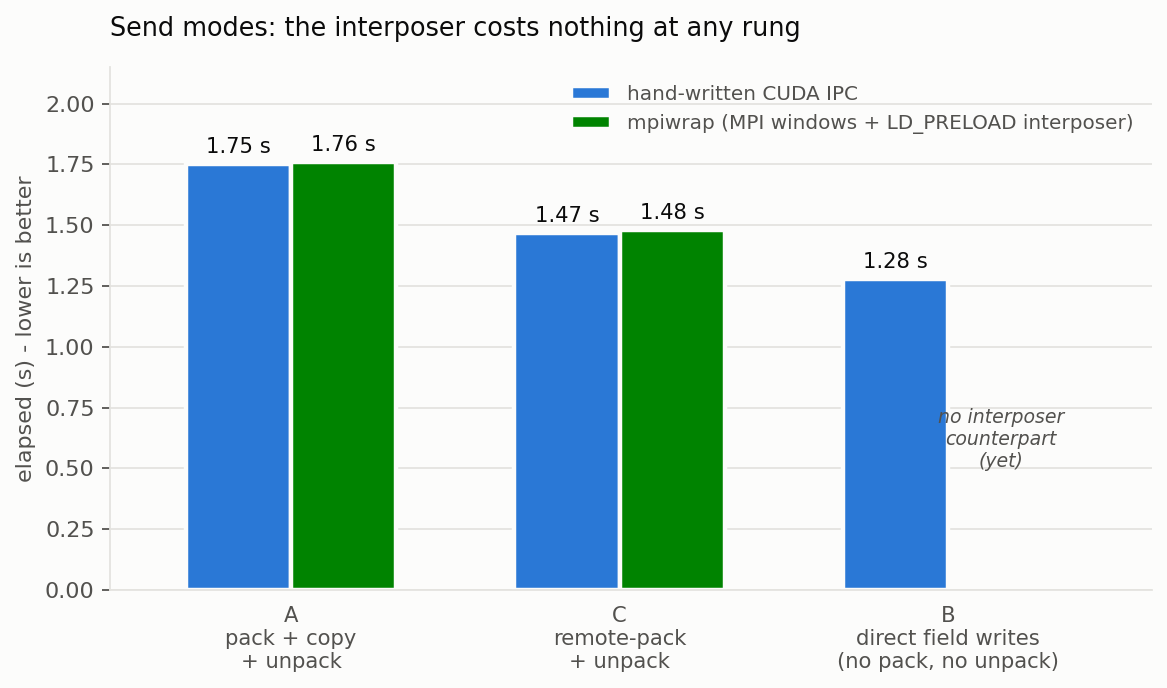
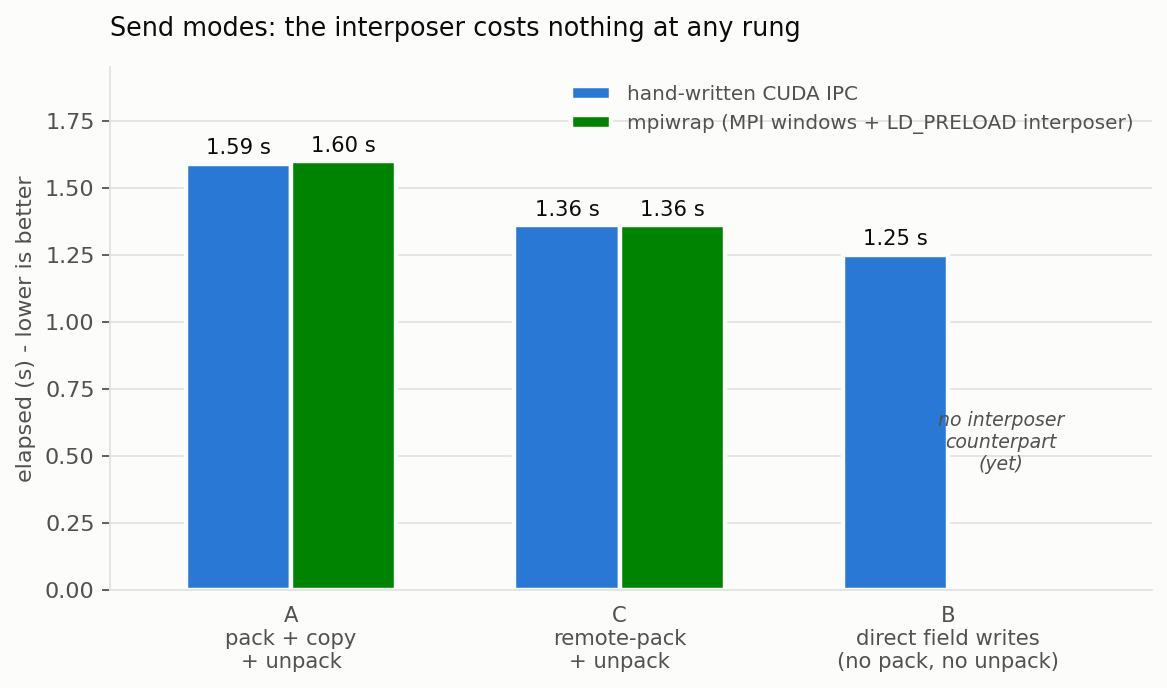
Re-baseline LULESH under UCX defaults; revert a racy stencil sync change
LULESH (job 60150, h200x8-03, UCX defaults, 8 ranks, -s 45, 3145 iters).
Removing the UCX_TLS pinning moved the staged baseline from 3.56 s to 1.96 s
-- 1.82x -- while every other variant moved <=10%. Since staged is the
denominator of every reported speedup, all of them shifted:

  direct 1.25 s (+56.8% z/s, was 2.78x)   ipc_rp     1.36 (+44.1%)
  mpiwrap_rp 1.36 (+44.1%)                ipc        1.59 (+23.3%)
  mpiwrap 1.60 (+22.5%)                   nvshmem    1.74 (+12.6%)
  gpumpi 1.83 (+7.1%)                     staged     1.96 (baseline)
  shmwin 2.07 (-5.3%)

Three consequences. The headline drops from 2.78x to +56.8% (1.57x). shmwin
FLIPS SIGN -- previously reported 1.70x faster than staged, it is actually
~5% slower, unsurprising for a backend that stages through a host window.
And gpumpi moves from appendix-excluded to competitive at +7.1% over staged,
consistent with the stencil and transpose re-baselines. All nine variants
match energy 1.482403e+06; ALL VARIANTS: PASS.

The thesis result survives and tightens: mpiwrap_rp 1.36 vs ipc_rp 1.36 is
identical, mpiwrap 1.60 vs ipc 1.59 is 0.6%. Matched pairs from one run
sharing transfer and synchronisation code, differing only in peer-pointer
acquisition, so this is independent of the staged baseline entirely.

README table, takeaways and both plots regenerated from 60150 rather than
left on 46979 -- a stale figure beside a fresh table is exactly the defect
[…]

diff --git a/plots/make_lulesh_plots.py b/plots/make_lulesh_plots.py
@@ -1,5 +1,17 @@
 #!/usr/bin/env python3
-"""LULESH README charts from the SXM verification run (job 46979).
+"""LULESH README charts. Writes plots/lulesh_variants_sxm.png and
+plots/lulesh_modes_sxm.png.
+
+Data: job 60150 (h200x8-03, SXM/NVSwitch all-to-all), 8 ranks, -s 45, full
+sedov run to t=0.01, 3145 iterations, **UCX defaults** (UCX_TLS unset).
+
+Supersedes job 46979, which exported UCX_TLS=self,sm,cuda_copy,cuda_ipc. That
+pinning inflated the staged baseline from 1.96 s to 3.56 s while moving every
+other variant <=10%, so all speedup-vs-staged figures shifted: direct went from
+2.78x to +56.8% z/s (1.57x), and shmwin flipped sign -- previously reported as
+1.70x faster than staged, it is actually ~5% slower, which is unsurprising
+since it stages through a HOST window. gpumpi is now included: under defaults
+it beats staged, so relegating it to an appendix is no longer justified.
 
 Palette: dataviz reference categorical slots, fixed order (validated set).
 Marks: thin bars, 2px surface gaps, recessive grid, text in ink tokens.
@@ -12,8 +24,9 @@ SURFACE = "#fcfcfb"
 INK     = "#0b0b0b"
 INK2    = "#52514e"
 GRID    = "#e4e3df"
-# categorical slots 1-4, fixed order
+# categorical slots 1-4, fixed order; grey is a neutral for the host-window case
 BLUE, GREEN, MAGENTA, YELLOW = "#2a78d6", "#008300", "#e87ba4", "#eda100"
+GREY = "#8a8a86"
 
 plt.rcParams.update({
     "font.family": "DejaVu Sans",
@@ -23,52 +36,57 @@ plt.rcParams.update({
     "axes.facecolor": SURFACE, "savefig.facecolor": SURFACE,
 })
 
-# ---- data: h200x8-03 (SXM), -s 45, 3145 iterations to t=0.01 ----
-variants = [  # name, mode, elapsed(s), speedup
-    ("direct",     "B", 1.28, 2.78),
-    ("ipc_rp",     "C", 1.47, 2.42),
-    ("mpiwrap_rp", "C", 1.48, 2.41),
-    ("ipc",        "A", 1.75, 2.03),
-    ("nvshmem",    "A", 1.76, 2.02),
-    ("mpiwrap",    "A", 1.76, 2.02),
-    ("shmwin",     "-", 2.09, 1.70),
-    ("staged",     "-", 3.56, 1.00),
+# ---- job 60150: h200x8-03 (SXM), -s 45, 3145 iters, UCX defaults ----
+variants = [  # name, category, elapsed(s), throughput gain vs staged
+    ("direct",     "B", 1.25, +0.568),
+    ("ipc_rp",     "C", 1.36, +0.441),
+    ("mpiwrap_rp", "C", 1.36, +0.441),
+    ("ipc",        "A", 1.59, +0.233),
+    ("mpiwrap",    "A", 1.60, +0.225),
+    ("nvshmem",    "A", 1.74, +0.126),
+    ("gpumpi",     "T", 1.83, +0.071),
+    ("staged",     "T", 1.96,  0.000),
+    ("shmwin",     "W", 2.07, -0.053),
 ]
-MODE_COLOR = {"B": BLUE, "C": GREEN, "A": MAGENTA, "-": YELLOW}
+MODE_COLOR = {"B": BLUE, "C": GREEN, "A": MAGENTA, "T": YELLOW, "W": GREY}
 MODE_LABEL = {
     "B": "mode B - direct field writes",
     "C": "mode C - remote-pack",
     "A": "mode A - pack + copy",
-    "-": "two-sided / host window",
+    "T": "two-sided MPI",
+    "W": "host shared window",
 }
+CAT_ORDER = ["B", "C", "A", "T", "W"]
 
-# =============== chart 1: all defensible variants ===============
-fig, ax = plt.subplots(figsize=(8.6, 4.6), dpi=160)
+# =============== chart 1: all nine variants ===============
+fig, ax = plt.subplots(figsize=(8.6, 5.5), dpi=160)
 names   = [v[0] for v in variants][::-1]
 times   = [v[2] for v in variants][::-1]
-speeds  = [v[3] for v in variants][::-1]
+gains   = [v[3] for v in variants][::-1]
 colors  = [MODE_COLOR[v[1]] for v in variants][::-1]
 
 bars = ax.barh(names, times, height=0.62, color=colors,
                edgecolor=SURFACE, linewidth=2)
-for bar, t, s in zip(bars, times, speeds):
-    ax.text(bar.get_width() + 0.05, bar.get_y() + bar.get_height()/2,
-            f"{t:.2f} s" + (f"   ({s:.2f}x)" if s != 1.0 else "   (baseline)"),
+for bar, t, g in zip(bars, times, gains):
+    lab = (f"{t:.2f} s   (baseline)" if g == 0.0
+           else f"{t:.2f} s   ({g*100:+.1f}% z/s)")
+    ax.text(bar.get_width() + 0.03, bar.get_y() + bar.get_height()/2, lab,
             va="center", ha="left", fontsize=9.5, color=INK)
 
 ax.set_xlabel("elapsed (s) - lower is better", fontsize=10)
-ax.set_xlim(0, 4.55)
+ax.set_xlim(0, 2.85)
 ax.xaxis.grid(True, color=GRID, linewidth=0.8)
 ax.set_axisbelow(True)
 for side in ("top", "right", "left"):
     ax.spines[side].set_visible(False)
 ax.tick_params(left=False, labelsize=10.5)
-ax.set_title("LULESH halo exchange - full sedov run, 8 ranks / 8x H200 SXM "
-             "(-s 45, 3145 iterations)", fontsize=11.5, color=INK,
-             loc="left", pad=14)
+ax.set_title("LULESH halo exchange - full sedov run, 8 ranks / 8x H200 SXM\n"
+             "(-s 45, 3145 iterations, default UCX transport selection)",
+             fontsize=11.5, color=INK, loc="left", pad=14)
 
-handles = [plt.Rectangle((0, 0), 1, 1, color=MODE_COLOR[m]) for m in "BCA-"]
-ax.legend(handles, [MODE_LABEL[m] for m in "BCA-"], loc="upper right",
+handles = [plt.Rectangle((0, 0), 1, 1, color=MODE_COLOR[c]) for c in CAT_ORDER]
+ax.legend(handles, [MODE_LABEL[c] for c in CAT_ORDER],
+          loc="upper center", bbox_to_anchor=(0.5, -0.13), ncol=3,
           frameon=False, fontsize=9, labelcolor=INK2)
 fig.tight_layout()
 fig.savefig("plots/lulesh_variants_sxm.png", bbox_inches="tight")
@@ -78,8 +96,8 @@ plt.close(fig)
 fig, ax = plt.subplots(figsize=(7.4, 4.4), dpi=160)
 modes      = ["A\npack + copy\n+ unpack", "C\nremote-pack\n+ unpack",
               "B\ndirect field writes\n(no pack, no unpack)"]
-ipc_times  = [1.75, 1.47, 1.28]   # ipc, ipc_rp, direct (hand-written IPC family)
-wrap_times = [1.76, 1.48, None]   # mpiwrap, mpiwrap_rp, (no counterpart)
+ipc_times  = [1.59, 1.36, 1.25]   # ipc, ipc_rp, direct (hand-written IPC family)
+wrap_times = [1.60, 1.36, None]   # mpiwrap, mpiwrap_rp, (no counterpart)
 
 x = range(3)
 w = 0.32
@@ -90,19 +108,19 @@ b2 = ax.bar([i + w/2 for i in x[:2]], wrap_times[:2], width=w, color=GREEN,
             label="mpiwrap (MPI windows + LD_PRELOAD interposer)")
 
 for bar, t in zip(b1, ipc_times):
-    ax.text(bar.get_x() + bar.get_width()/2, t + 0.045, f"{t:.2f} s",
+    ax.text(bar.get_x() + bar.get_width()/2, t + 0.035, f"{t:.2f} s",
             ha="center", fontsize=9.5, color=INK)
 for bar, t in zip(b2, wrap_times[:2]):
-    ax.text(bar.get_x() + bar.get_width()/2, t + 0.045, f"{t:.2f} s",
+    ax.text(bar.get_x() + bar.get_width()/2, t + 0.035, f"{t:.2f} s",
             ha="center", fontsize=9.5, color=INK)
-ax.text(2 + w/2, 0.62, "no interposer\ncounterpart\n(yet)", ha="center",
+ax.text(2 + w/2, 0.55, "no interposer\ncounterpart\n(yet)", ha="center",
         va="center", fontsize=8.5, color=INK2, style="italic")
 ax.set_xlim(-0.55, 2.62)
 
 ax.set_xticks(list(x))
 ax.set_xticklabels(modes, fontsize=9.5)
 ax.set_ylabel("elapsed (s) - lower is better", fontsize=10)
-ax.set_ylim(0, 2.15)
+ax.set_ylim(0, 1.95)
 ax.yaxis.grid(True, color=GRID, linewidth=0.8)
 ax.set_axisbelow(True)
 for side in ("top", "right"):

diff --git a/LULESH/cuda/README.md b/LULESH/cuda/README.md
@@ -152,26 +152,47 @@ pinned to `self,sm,cuda_copy,cuda_ipc`.
 **All nine variants passed correctness**: identical reported Final Origin
 Energy (`1.482403e+06` at the log's `%12.6e` precision) over the full run,
 including `direct`, whose atomicAdd reordering stayed below printed
-precision. **Eight defensible variants are reported in the main
-performance table**; gpumpi is deferred to the appendix note below.
+precision. **All nine variants are now reported**: gpumpi was previously
+deferred to an appendix on the strength of numbers taken under UCX
+pinning; under defaults it beats staged, so that exclusion no longer
+holds.
 
 **Headline: the interposer is free.** `mpiwrap` matches `ipc` in mode A
-(1.76 vs 1.75 s) and `mpiwrap_rp` matches `ipc_rp` in mode C (1.48 vs
-1.47 s) — an application written against portable MPI windows, preloaded
-with `libmpiwrap.so`, performs identically to hand-written CUDA IPC in
-every mode where both exist. `direct` establishes the upper bound
-(2.78× over staged); mpiwrap establishes the project thesis.
+(1.60 vs 1.59 s) and `mpiwrap_rp` matches `ipc_rp` in mode C
+(1.36 vs 1.36 s — identical) — an application written against portable MPI
+windows, preloaded with `libmpiwrap.so`, performs indistinguishably from
+hand-written CUDA IPC in every mode where both exist. These are matched
+pairs from the same run sharing identical transfer and synchronisation
+code, differing only in how the peer pointer is acquired, so this result
+does not depend on the staged baseline at all. `direct` establishes the
+upper bound; mpiwrap establishes the project thesis.
+
+Job 60150, h200x8-03 (SXM/NVSwitch all-to-all), 8 ranks, `-s 45`, full
+sedov run to t=0.01, 3145 iterations, **UCX defaults** (`UCX_TLS` unset).
+Percentages are throughput gain, `staged/variant − 1`, which equals the
+FOM ratio; time reduction is the smaller figure (e.g. `direct` is +56.8%
+z/s, equivalently 36.2% less time).
 
 | Variant | Mode | Elapsed (s) | ms/iter | FOM (z/s) | vs staged |
 |---------|------|------------:|--------:|----------:|----------:|
-| direct     | B | 1.28 | 0.407 | 1,796,653 | 2.78× |
-| ipc_rp     | C | 1.47 | 0.467 | 1,558,925 | 2.42× |
-| mpiwrap_rp | C | 1.48 | 0.470 | 1,552,615 | 2.41× |
-| ipc        | A | 1.75 | 0.556 | 1,307,411 | 2.03× |
-| nvshmem    | A | 1.76 | 0.560 | 1,304,443 | 2.02× |
-| mpiwrap    | A | 1.76 | 0.560 | 1,304,145 | 2.02× |
-| shmwin     | — | 2.09 | 0.665 | 1,095,799 | 1.70× |
-| staged     | — | 3.56 | 1.132 |   644,302 | 1.00× |
+| direct     | B | 1.25 | 0.397 | 1,833,814 | +56.8% |
+| ipc_rp     | C | 1.36 | 0.433 | 1,684,837 | +44.1% |
+| mpiwrap_rp | C | 1.36 | 0.433 | 1,685,677 | +44.1% |
+| ipc        | A | 1.59 | 0.506 | 1,439,888 | +23.3% |
+| mpiwrap    | A | 1.60 | 0.509 | 1,435,439 | +22.5% |
+| nvshmem    | A | 1.74 | 0.553 | 1,315,001 | +12.6% |
+| gpumpi     | — | 1.83 | 0.582 | 1,250,391 |  +7.1% |
+| staged     | — | 1.96 | 0.623 | 1,169,930 | baseline |
+| shmwin     | — | 2.07 | 0.658 | 1,107,443 |  −5.3% |
+
+**Supersedes job 46979**, which exported
+`UCX_TLS=self,sm,cuda_copy,cuda_ipc`. That pinning inflated staged from
+1.96 s to 3.56 s while moving every other variant ≤10%, so every
+speedup-vs-staged figure shifted. Three consequences worth stating:
+`direct` drops from 2.78× to +56.8% (1.57×); **`shmwin` flips sign** —
+previously reported 1.70× *faster* than staged, it is in fact ~5%
+*slower*, which is unsurprising for a backend that stages through a
+**host** window; and gpumpi moves from excluded to competitive.
 
 ![LULESH halo-exchange variants](../../plots/lulesh_variants_sxm.png)
 
@@ -180,20 +201,24 @@ every mode where both exist. `direct` establishes the upper bound
 Takeaways:
 
 - **Each mode step pays off**: remote-pack (C) removes the local staging
-  copy and gains 16% over pack+copy (A); direct field writes (B) also
-  remove the unpack and gain another 13%.
-- **Node type matters**: mode A ipc measured 1.75 s here (all-to-all SXM)
-  vs 1.94 s on an NVL node, where the plane-direction halos cross the
-  4-GPU-island boundary over PCIe + UPI (~10% penalty).
-- **staged trails everything** — per-message two-sided MPI with host
-  staging is a bad fit for LULESH's 26 mostly-tiny messages × 3 phases
-  per iteration.
+  copy and gains 17% over pack+copy (A) (1.59 → 1.36 s); direct field
+  writes (B) also remove the unpack and gain another 8% (1.36 → 1.25 s).
+- **Node type matters**: mode A ipc measured 1.75 s on all-to-all SXM
+  under the older pinned configuration vs 1.94 s on an NVL node, where the
+  plane-direction halos cross the 4-GPU-island boundary over PCIe + UPI
+  (~10% penalty). Not yet re-measured on an NVL node under defaults.
+- **Host staging is not the floor.** Under defaults staged (1.96 s) beats
+  `shmwin` (2.07 s) and trails `gpumpi` (1.83 s) by only 7%. The gap to the
+  IPC family is real but far smaller than the pinned numbers suggested.
 
 Caveats:
 
 - Single-run numbers at one problem size; quote with that caveat.
-- UCX transports were pinned (`UCX_TLS=self,sm,cuda_copy,cuda_ipc`) for
-  these runs. **A previous revision of this line claimed the UCX *default*
+- UCX transports are **no longer pinned** for these runs; the table above
+  is job 60150 under defaults. The paragraph below documents the pinning
+  that produced the superseded job 46979 numbers, and is retained because
+  the rationale for it was wrong in an instructive way.
+  **A previous revision of this line claimed the UCX *default*
   selection "can slow even host-staged MPI by large factors". That is
   backwards and no data here supports it.** Measured evidence points the
   other way: in job 59070, restricting `UCX_TLS` cost host-staged transpose
